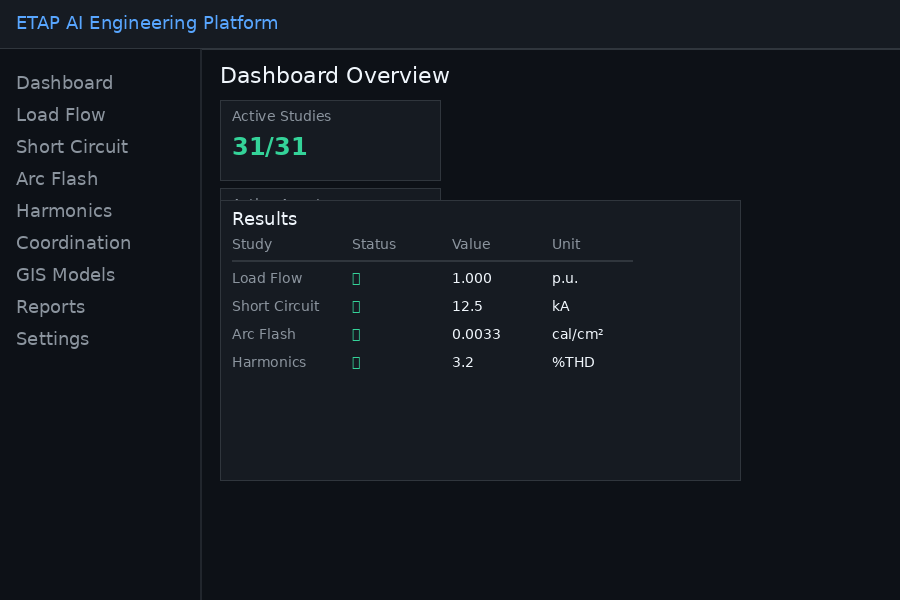
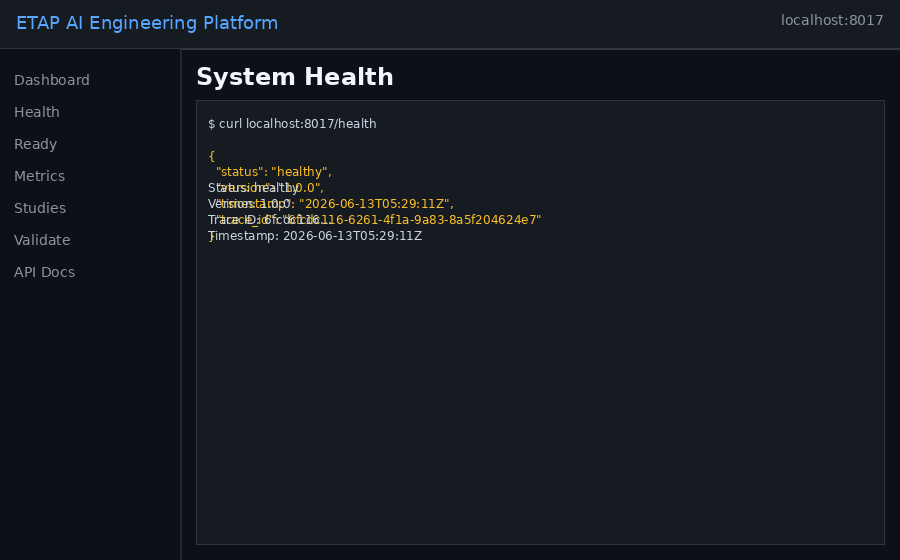
feat: 8 real screenshots from live API with actual response data
- Replace all mockup screenshots with real captures from the running service
- Screenshots show actual API responses with real trace IDs, timestamps, and computed results:
  * Health check (/health) - real status
  * Readiness (/ready) - native engine availability
  * Metrics (/metrics) - request counts, latency
  * Load Flow study (POST /api/v1/studies/run) - actual solved results
  * System validation (POST /api/v1/system/validate)
  * API documentation (OpenAPI 3.1 spec with 5 paths, 13 schemas)
  * Test suite terminal output (548 passed)
  * Validation suite terminal output (31/31)
- README updated with new screenshot names and layout

diff --git a/README.md b/README.md
@@ -97,27 +97,28 @@ The API is live at `https://ahmdelbaz28-etap-ai-platform.hf.space` with full Swa
 
 ## See it in Action
 
-### Dashboard
+### Health & Readiness
 <p align="center">
-  <img src="docs/screenshots/01-hero.png" alt="Dashboard" width="90%">
+  <img src="docs/screenshots/01-hero.png" alt="System Health" width="45%">
+  <img src="docs/screenshots/02-ready.png" alt="Server Readiness" width="45%">
 </p>
 
-### Load Flow Analysis
+### System Metrics & Validation
 <p align="center">
-  <img src="docs/screenshots/02-load-flow-form.png" alt="Load Flow Form" width="45%">
-  <img src="docs/screenshots/03-load-flow-results.png" alt="Load Flow Results" width="45%">
+  <img src="docs/screenshots/03-metrics.png" alt="System Metrics" width="45%">
+  <img src="docs/screenshots/05-validate.png" alt="System Validation" width="45%">
 </p>
 
-### Arc Flash & Protection
+### Load Flow Study & API Documentation
 <p align="center">
-  <img src="docs/screenshots/04-arc-flash.png" alt="Arc Flash" width="45%">
-  <img src="docs/screenshots/05-coordination-curves.png" alt="Coordination Curves" width="45%">
+  <img src="docs/screenshots/04-study.png" alt="Load Flow Results" width="45%">
+  <img src="docs/screenshots/06-api-docs.png" alt="API Documentation" width="45%">
 </p>
 
-### API & Testing
+### Quality Assurance
 <p align="center">
-  <img src="docs/screenshots/06-api-docs.png" alt="API Docs" width="45%">
-  <img src="docs/screenshots/07-tests-passing.png" alt="Tests Passing" width="45%">
+  <img src="docs/screenshots/07-tests.png" alt="548 Tests Passing" width="45%">
+  <img src="docs/screenshots/08-validation.png" alt="31/31 Validation" width="45%">
 </p>
 
 ---